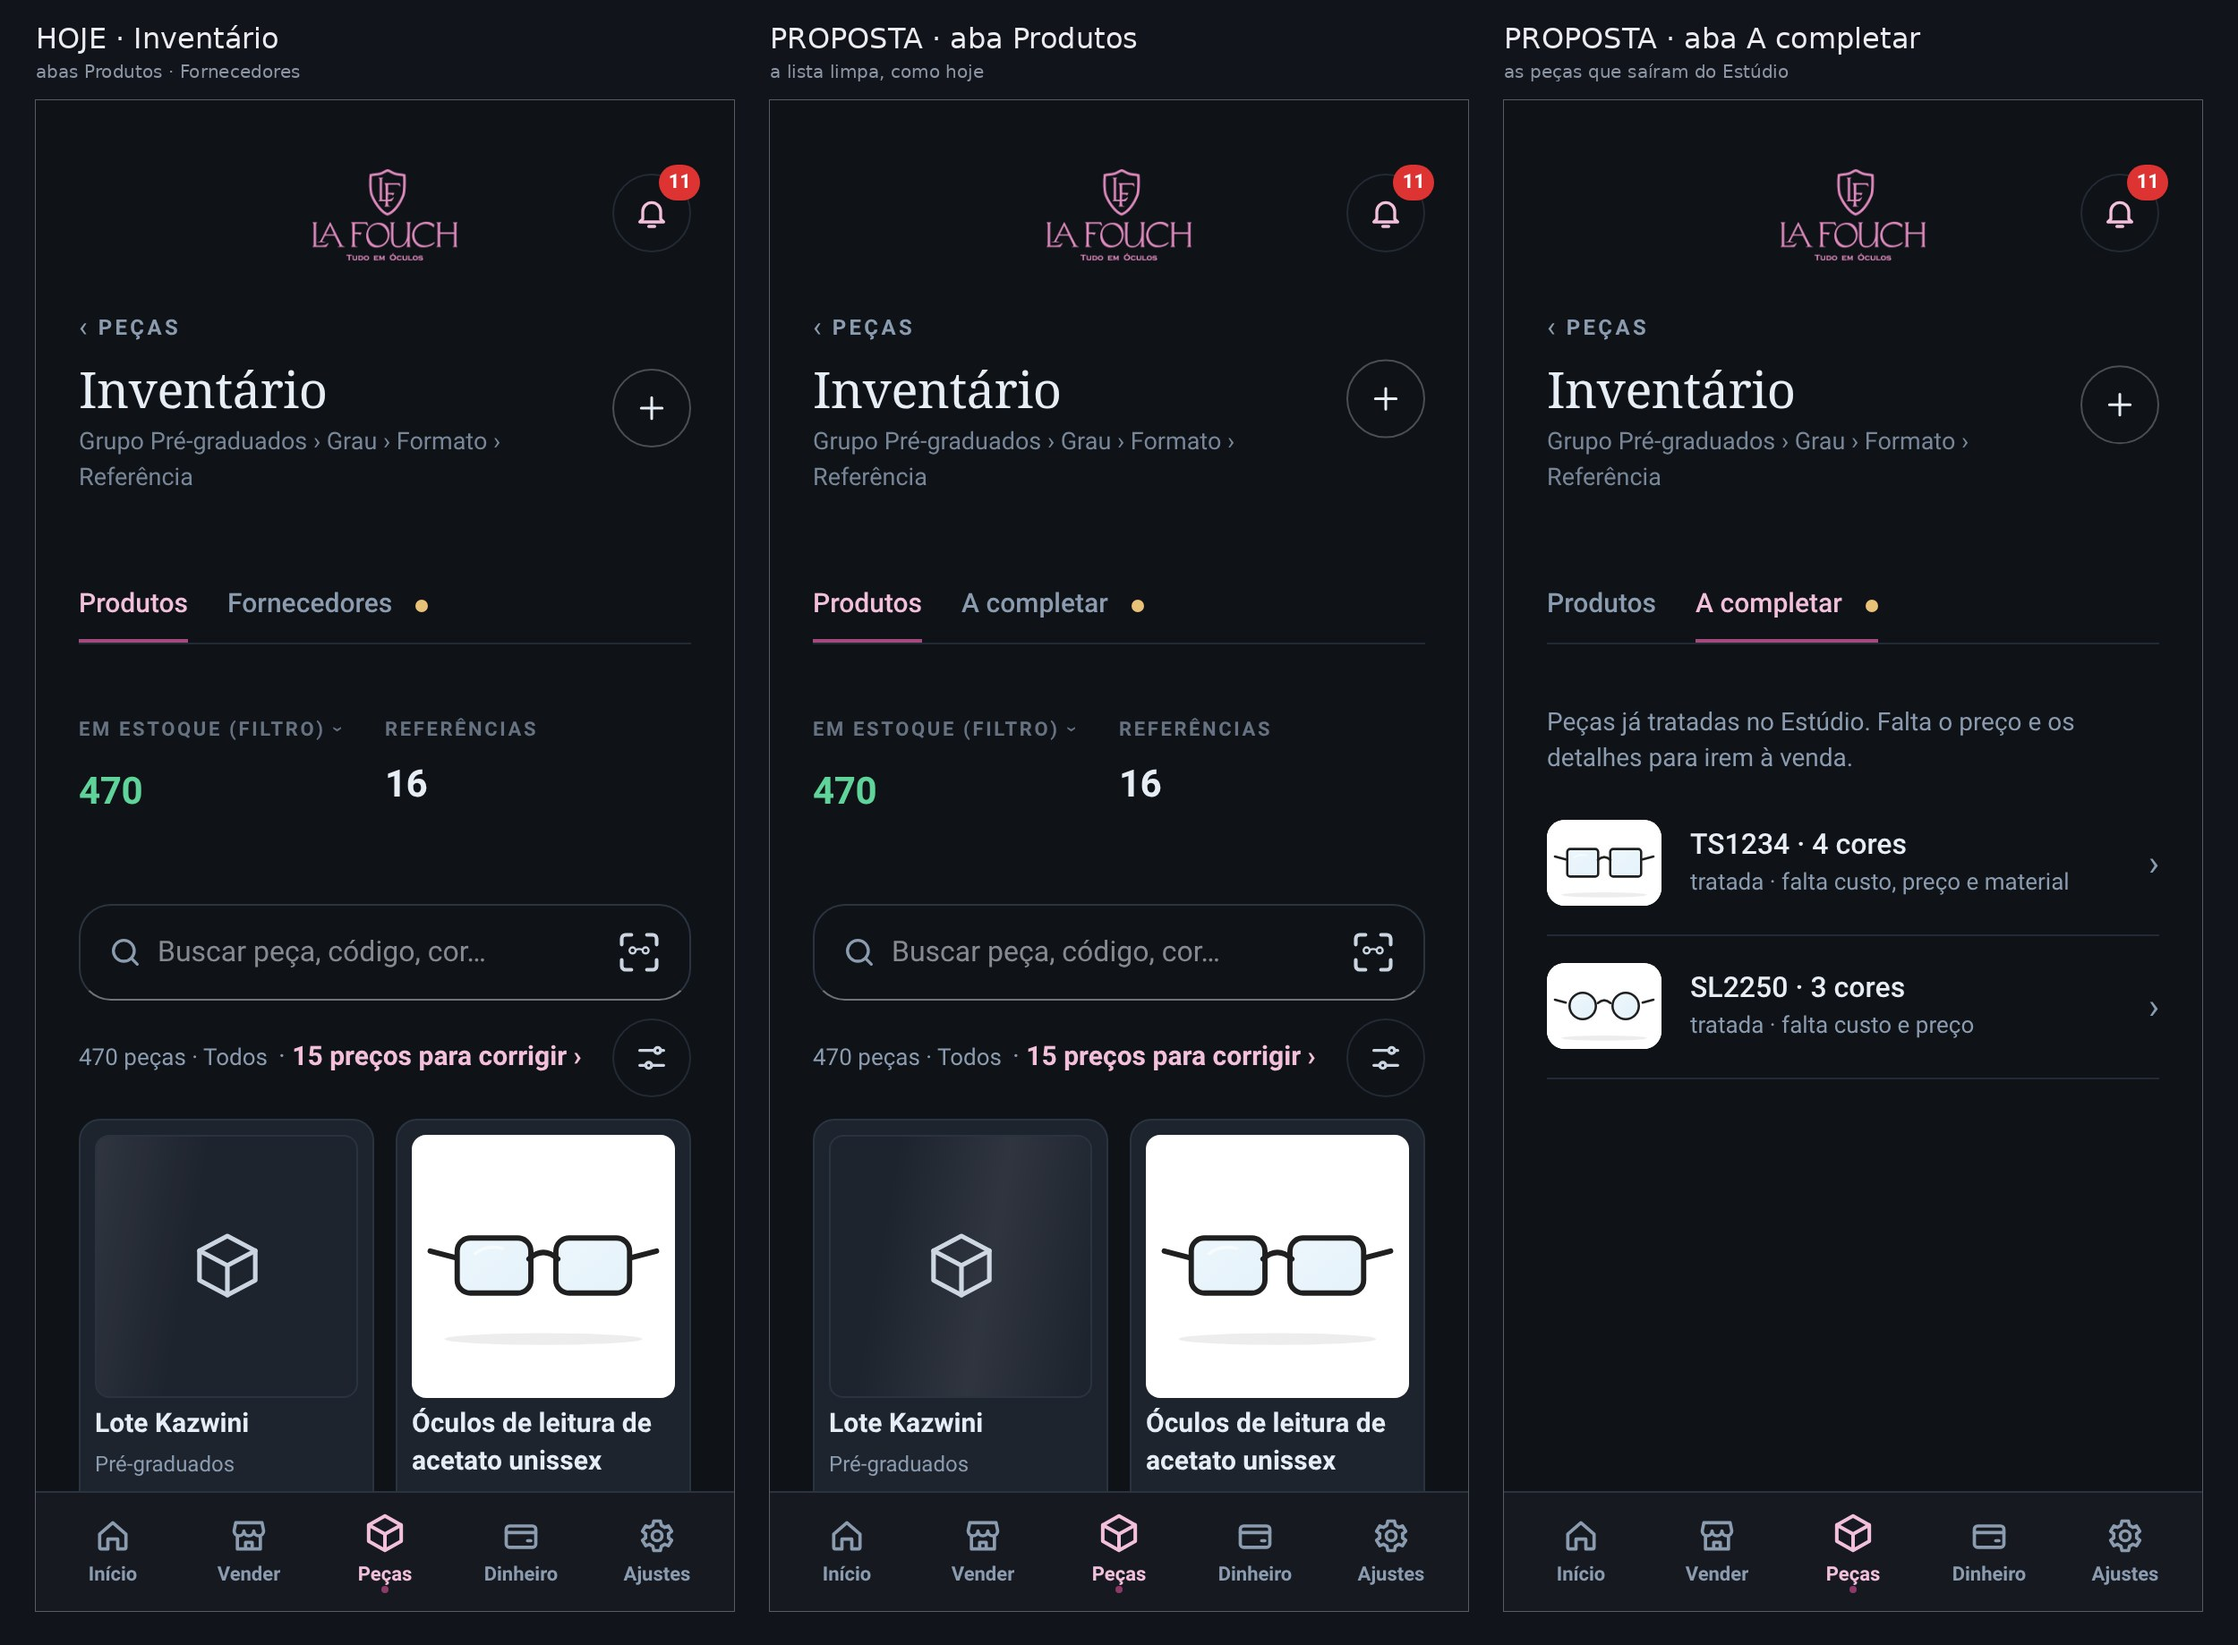
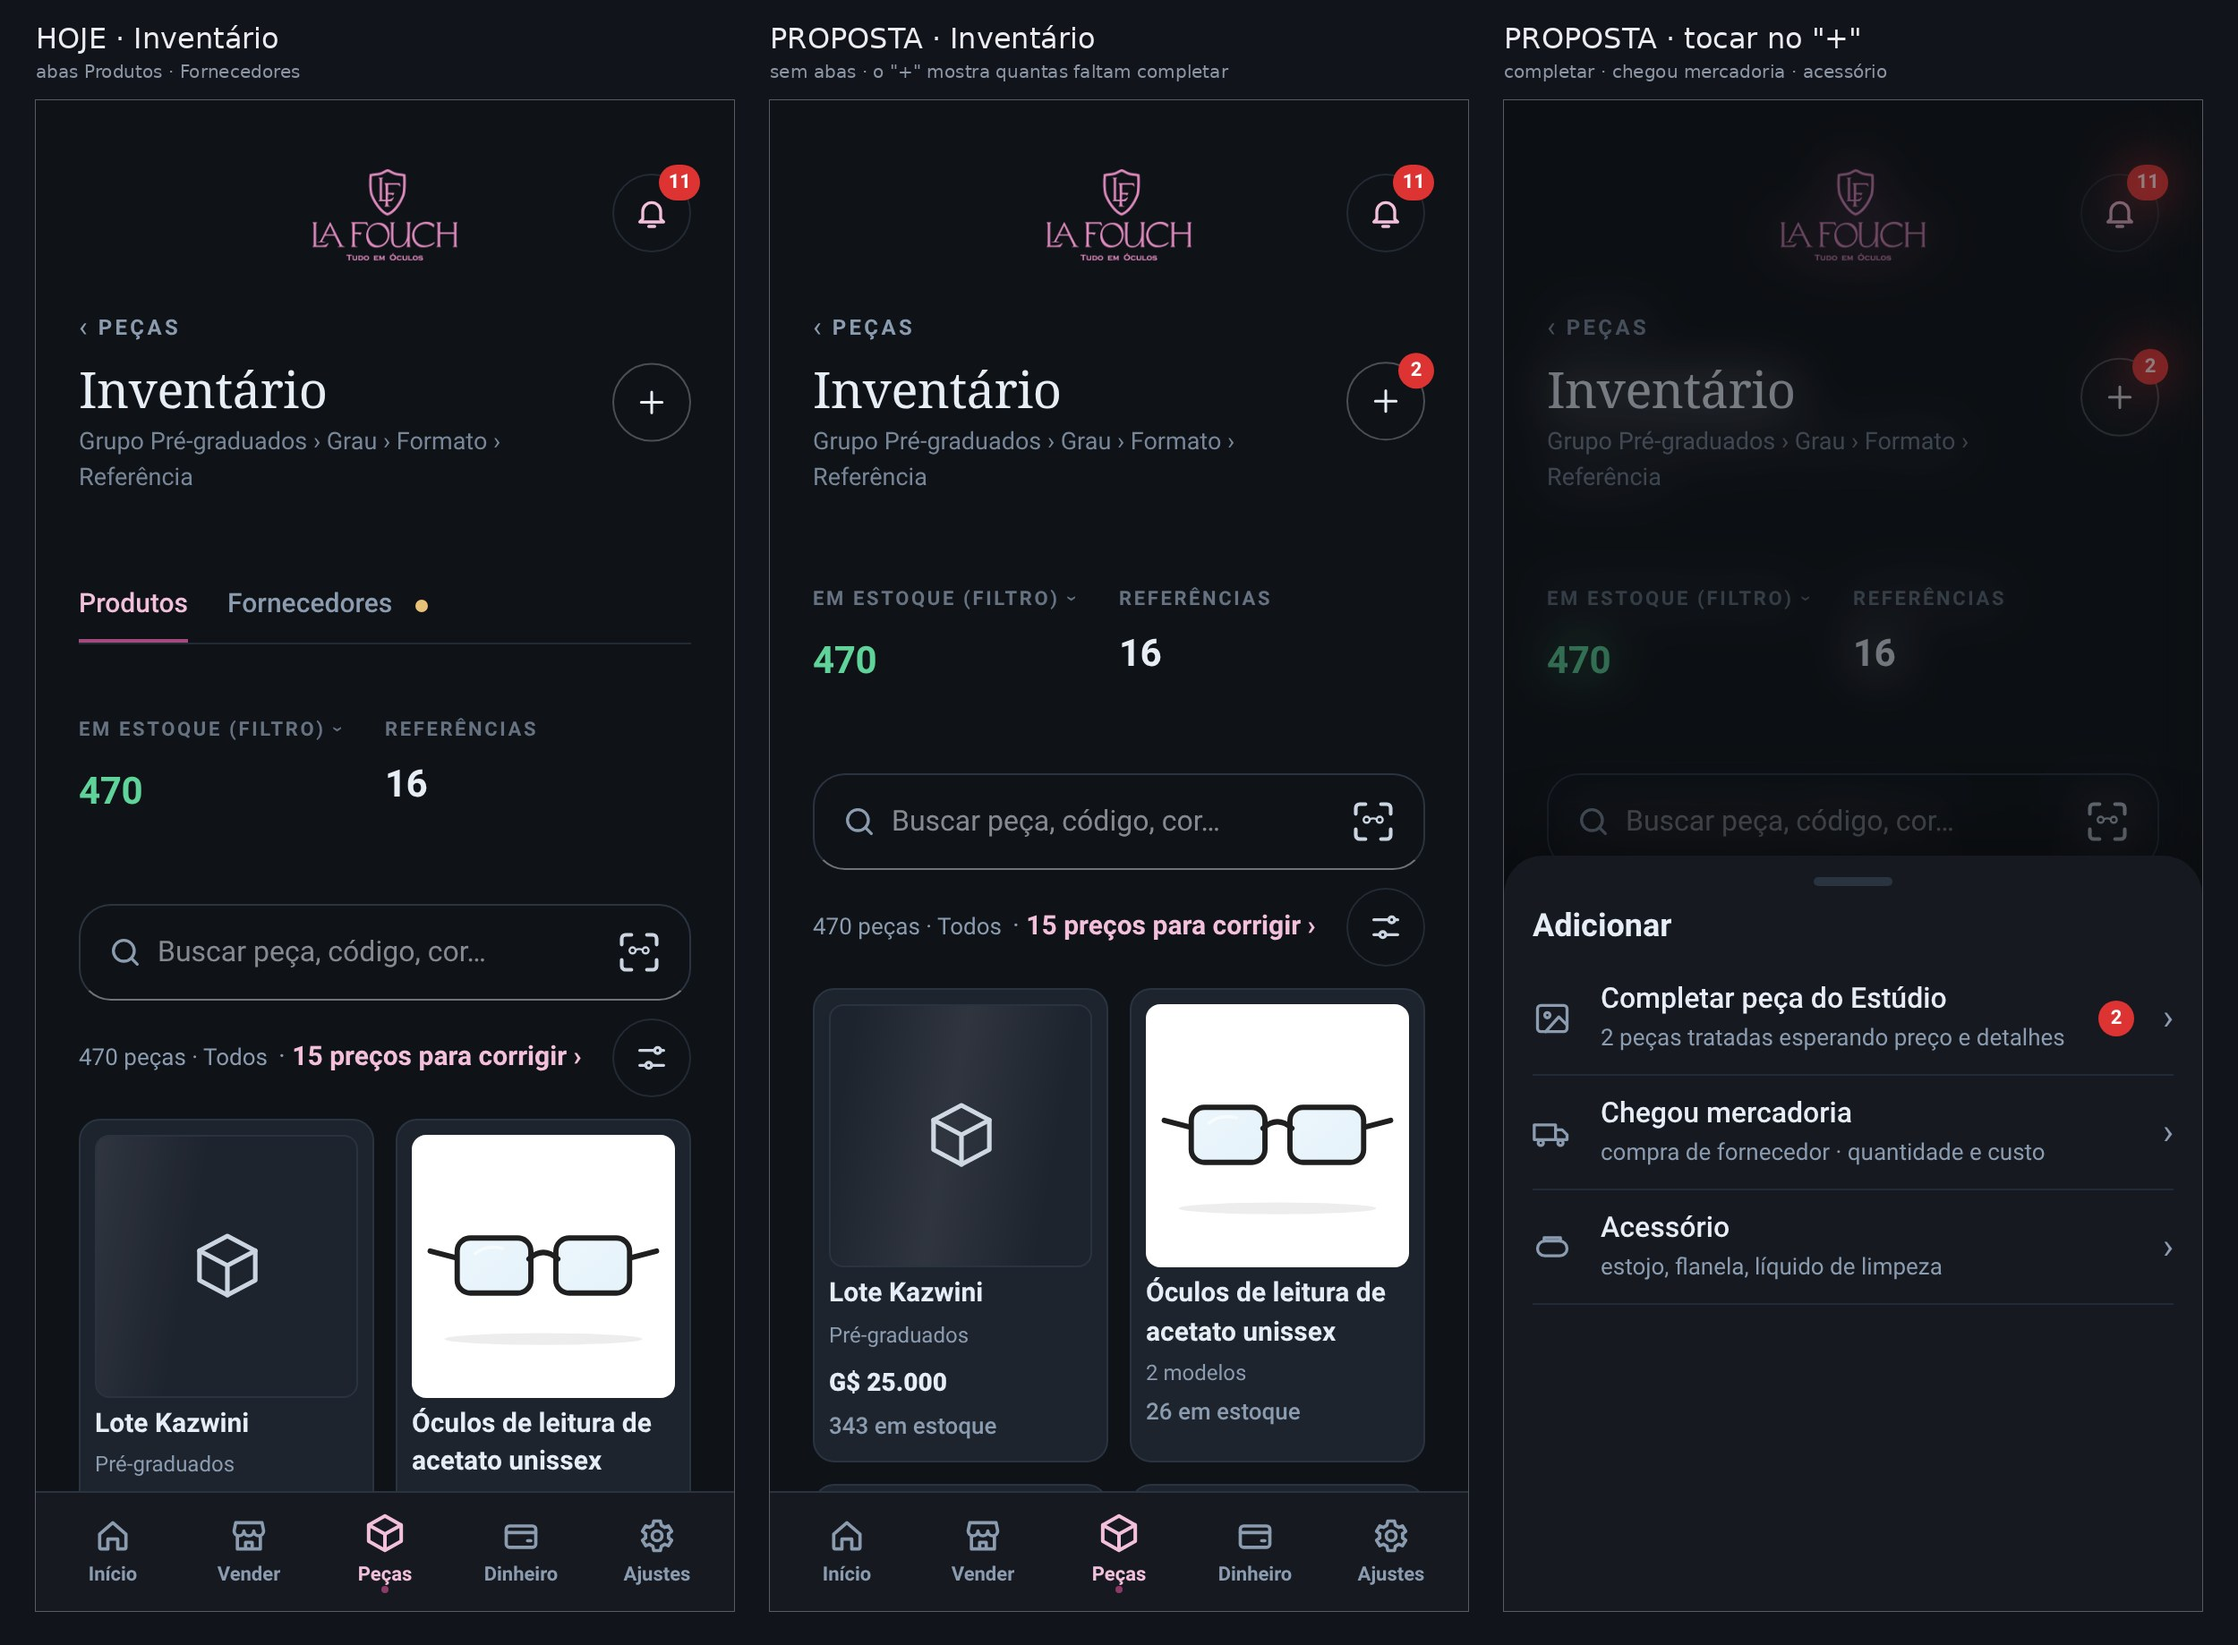
Esboço 48b v3: A completar dentro do + (com selo); Acessório no lugar de Preencher à mão
Claude-Session: https://claude.ai/code/session_01Vj5GPRt4UBskC3w8v52h7G

diff --git a/work/s435/compras/esboco_48.py b/work/s435/compras/esboco_48.py
@@ -74,3 +74,14 @@ def inventario2(pw,aba):
     const ROW=(img,a,s)=>'<button type="button" style="'+ST+'"><span style="flex:0 0 64px;height:48px;border-radius:10px;overflow:hidden;background:#fff"><img src="'+img+'" style="width:100%;height:100%;object-fit:contain"></span><span style="flex:1;min-width:0;display:flex;flex-direction:column;gap:2px"><b style="font-size:16px;font-weight:500">'+a+'</b><small style="font-size:13px;color:var(--mute)">'+s+'</small></span><i style="font-style:normal;font-size:20px;color:var(--mute)">›</i></button>';
     const d=document.createElement('section');d.innerHTML='<div style="color:var(--mute);font-size:14px;margin:8px 0 8px">Peças já tratadas no Estúdio. Falta o preço e os detalhes para irem à venda.</div>'+ROW(I[1],'TS1234 · 4 cores','tratada · falta custo, preço e material')+ROW(I[3],'SL2250 · 3 cores','tratada · falta custo e preço');t.after(d)}}""",[I,aba]);w(400)
   x=shot(pg,'i2%d'%aba);b.close();return x
+def inventario3(pw,jan):
+  # 48b v3 (dono 12:23: existem estojos, flanelas e líquidos; não gosta da aba): sem abas · o "+" leva o selo das peças a completar
+  b,pg,w=ap.abre(pw,'estoque',True,'celular',base=True);w(600);pg.add_style_tag(content='#nvBar{display:none!important}')
+  pg.evaluate(r"""()=>{document.getElementById('eTabs').style.setProperty('display','none','important');[...document.querySelectorAll('#kpisE .kpi')].filter(k=>/Lotes pendentes/.test(k.textContent)).forEach(k=>k.remove());
+   const p=document.querySelector('button[aria-label="Adicionar"]');p.style.position='relative';p.insertAdjacentHTML('beforeend','<i style="position:absolute;top:-6px;right:-6px;min-width:20px;height:20px;border-radius:10px;background:#d33;color:#fff;font:normal 700 11px/20px system-ui;text-align:center;padding:0 5px">2</i>')}""");w(300)
+  if jan:
+    pg.evaluate(r"""()=>{const IC={c:'<rect x="3" y="4" width="18" height="16" rx="2"/><circle cx="9" cy="10" r="1.6"/><path d="M21 16l-5-5-8 9"/>',m:'<path d="M1 7h13v9H1zM14 10h4l3 3v3h-7"/><circle cx="5" cy="18" r="1.6"/><circle cx="17" cy="18" r="1.6"/>',a:'<rect x="3" y="8" width="18" height="9" rx="4.5"/><path d="M7 8V6h10v2"/>'};
+     const ROW=(ic,t,s,n)=>'<button type="button" style="display:flex;align-items:center;gap:16px;width:100%;min-height:64px;background:none;border:0;border-bottom:1px solid var(--line2);padding:8px 0;color:var(--fg);font:inherit;text-align:left"><svg width="22" height="22" viewBox="0 0 24 24" fill="none" stroke="var(--mute)" stroke-width="1.8" stroke-linecap="round" stroke-linejoin="round">'+IC[ic]+'</svg><span style="flex:1;min-width:0;display:flex;flex-direction:column;gap:2px"><b style="font-size:16px;font-weight:500">'+t+'</b><small style="font-size:13px;color:var(--mute)">'+s+'</small></span>'+(n?'<i style="min-width:20px;height:20px;border-radius:10px;background:#d33;color:#fff;font:normal 700 11px/20px system-ui;text-align:center;padding:0 5px">'+n+'</i>':'')+'<i style="font-style:normal;font-size:20px;color:var(--mute)">›</i></button>';
+     const bk=document.createElement('div');bk.className='ljBk';bk.style.opacity='.5';const j=document.createElement('div');j.className='ljJn';j.style.transform='none';
+     j.innerHTML='<div class="ljPuxa"></div><div class="ljHd"><b>Adicionar</b></div><div class="ljCorpo">'+ROW('c','Completar peça do Estúdio','2 peças tratadas esperando preço e detalhes',2)+ROW('m','Chegou mercadoria','compra de fornecedor · quantidade e custo')+ROW('a','Acessório','estojo, flanela, líquido de limpeza')+'</div>';document.body.appendChild(bk);document.body.appendChild(j)}""");w(500)
+  x=shot(pg,'i3%d'%jan);b.close();return x

diff --git a/docs/MEMORIA-PROJETO.md b/docs/MEMORIA-PROJETO.md
@@ -3447,3 +3447,4 @@ Testar TUDO, com muita calma, antes de dizer que está pronto ou de publicar: ca
 - 21/11 12:12 · DONO (ESBOCO/S435): painel do Site precisa de redesenho inteiro (quebra o design, repete, pouco intuitivo) — estudo 47 enviado (fotos de hoje; proposta: as 5 telas do painel viram telas do app, sai o repetido); fica para DEPOIS. Regra de abas proposta: abas só para 2–3 vistas da MESMA coisa (estado de uma lista ou partes de um item); assunto diferente = lugar ›. DIREÇÃO APROVADA ("estamos indo na direção correta, vamos aos esboços"): família Peças = Inventário · Estúdio · Compras; Inventário só produtos (sem abas, e o próprio Inventário será atualizado); Compras = Lista de compras (um lugar só; sai do Giro e do fim de Fornecedores) + Fornecedores; cada fornecedor vira tela própria (o que vende em US$, compras, o que vendeu dele); caminho único Semp sugere → Guardião confere → Lista → Pedir ao fornecedor (espanhol, por distribuidora) → Chegou mercadoria → Inventário/Estúdio. Esboço 48 em partes.
 - 21/11 12:30 · ESBOCO: esboço 48 parte 1 enviado (48a Peças + Compras · 48b Inventário sem abas com A completar · 48c Compras = Lista de compras + Fornecedores › · 48d Giro com a linha 'Lista de compras ›'). Achados: não existe cadastro de fornecedor (é só o nome escrito na compra) · a Lista diz '9 produto(s)' no título e 'Acabando · 17' dentro · nomes longos quebram em 4 linhas. Esperando o dono; parte 2 = tela de cada fornecedor.
 - 21/11 12:35 · DONO: Inventário com 'A completar' em cima ficou poluído; pediu dentro do '+' ou numa aba, o que eu recomendar. Recomendei ABA (2 estados da mesma lista de produtos, cabe na regra das abas; o '+' é para criar e esconderia trabalho pendente). 48b refeito: abas Produtos · A completar (no lugar de Fornecedores, que vai para Compras). Esperando o dono.
+- 21/11 12:40 · DONO: existem produtos sem Estúdio (estojos, flanelas, líquidos de limpeza) e ele NÃO gosta da aba A completar. 48b v3: Inventário sem abas; o '+' leva o selo vermelho com quantas peças faltam completar; a janela Adicionar fica com Completar peça do Estúdio (selo) · Chegou mercadoria · Acessório (no lugar de 'Preencher à mão', só para o que não passa pelo Estúdio). Esperando o dono.

diff --git a/docs/FALTA-APROVAR-15-11.md b/docs/FALTA-APROVAR-15-11.md
@@ -936,3 +936,4 @@ Não são esquecimento (estavam na lista, parados de propósito ou por ordem do 
 - 21/11 12:12 · DONO (ESBOCO/S435): painel do Site precisa de redesenho inteiro (quebra o design, repete, pouco intuitivo) — estudo 47 enviado (fotos de hoje; proposta: as 5 telas do painel viram telas do app, sai o repetido); fica para DEPOIS. Regra de abas proposta: abas só para 2–3 vistas da MESMA coisa (estado de uma lista ou partes de um item); assunto diferente = lugar ›. DIREÇÃO APROVADA ("estamos indo na direção correta, vamos aos esboços"): família Peças = Inventário · Estúdio · Compras; Inventário só produtos (sem abas, e o próprio Inventário será atualizado); Compras = Lista de compras (um lugar só; sai do Giro e do fim de Fornecedores) + Fornecedores; cada fornecedor vira tela própria (o que vende em US$, compras, o que vendeu dele); caminho único Semp sugere → Guardião confere → Lista → Pedir ao fornecedor (espanhol, por distribuidora) → Chegou mercadoria → Inventário/Estúdio. Esboço 48 em partes.
 - 21/11 12:30 · ESBOCO: esboço 48 parte 1 enviado (48a Peças + Compras · 48b Inventário sem abas com A completar · 48c Compras = Lista de compras + Fornecedores › · 48d Giro com a linha 'Lista de compras ›'). Achados: não existe cadastro de fornecedor (é só o nome escrito na compra) · a Lista diz '9 produto(s)' no título e 'Acabando · 17' dentro · nomes longos quebram em 4 linhas. Esperando o dono; parte 2 = tela de cada fornecedor.
 - 21/11 12:35 · DONO: Inventário com 'A completar' em cima ficou poluído; pediu dentro do '+' ou numa aba, o que eu recomendar. Recomendei ABA (2 estados da mesma lista de produtos, cabe na regra das abas; o '+' é para criar e esconderia trabalho pendente). 48b refeito: abas Produtos · A completar (no lugar de Fornecedores, que vai para Compras). Esperando o dono.
+- 21/11 12:40 · DONO: existem produtos sem Estúdio (estojos, flanelas, líquidos de limpeza) e ele NÃO gosta da aba A completar. 48b v3: Inventário sem abas; o '+' leva o selo vermelho com quantas peças faltam completar; a janela Adicionar fica com Completar peça do Estúdio (selo) · Chegou mercadoria · Acessório (no lugar de 'Preencher à mão', só para o que não passa pelo Estúdio). Esperando o dono.
